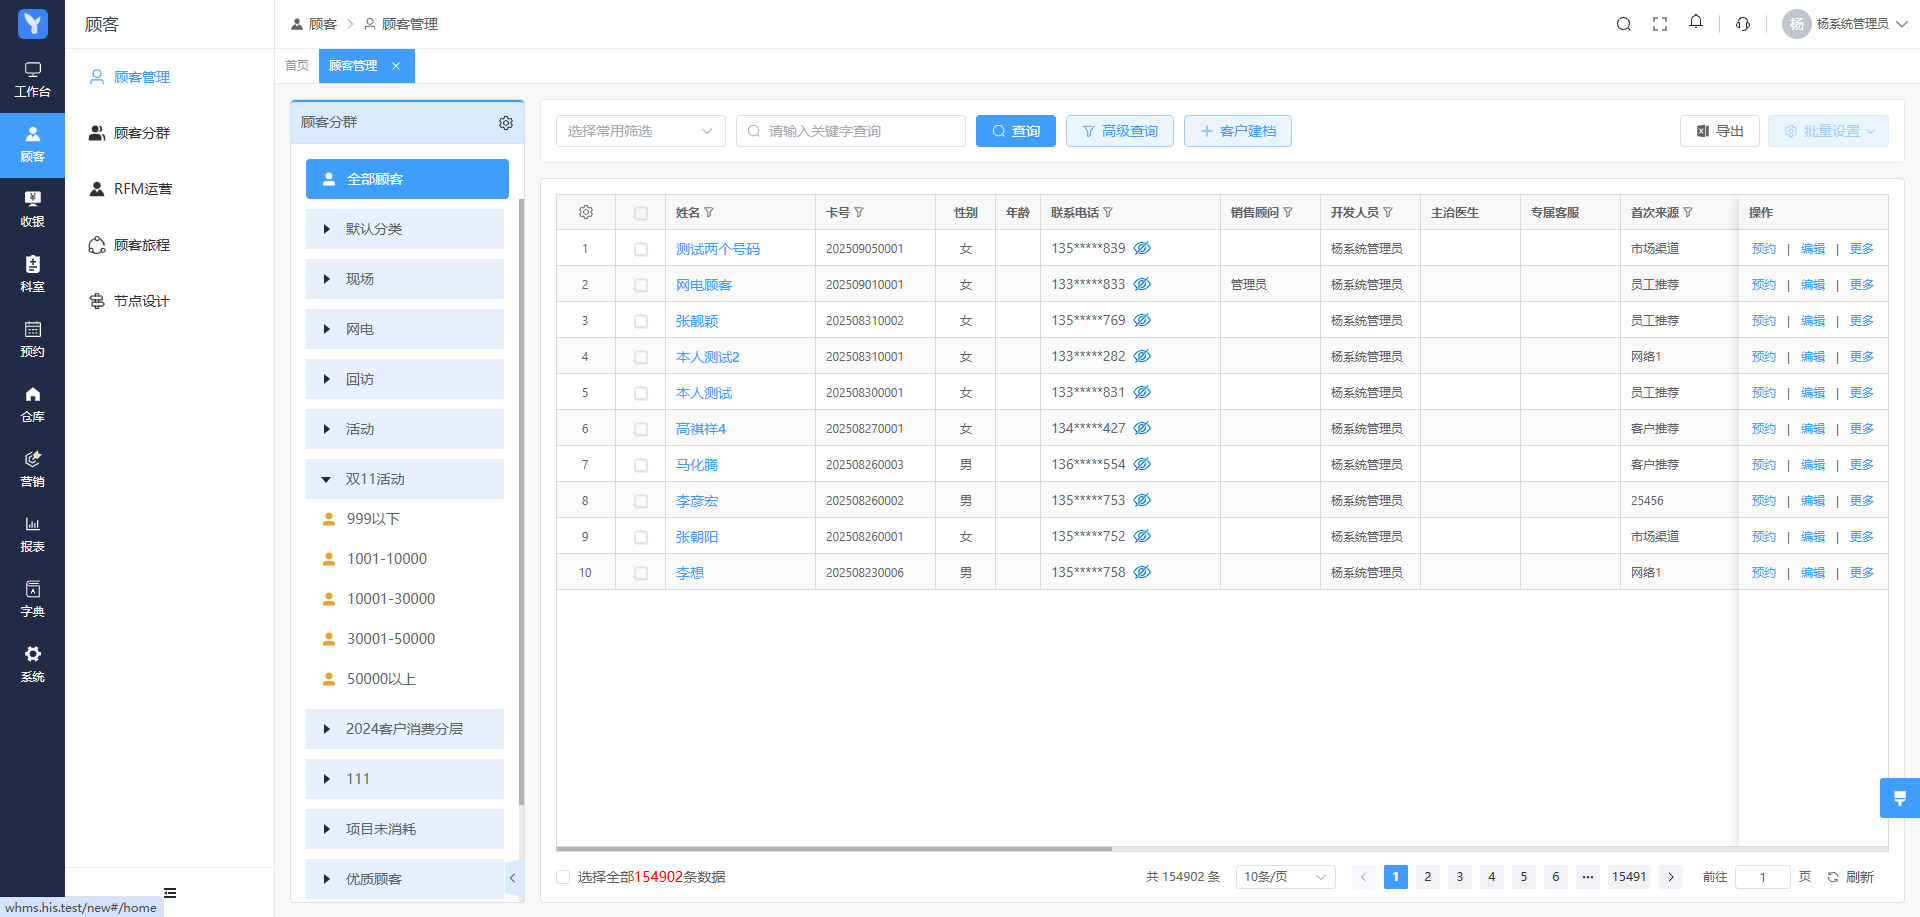
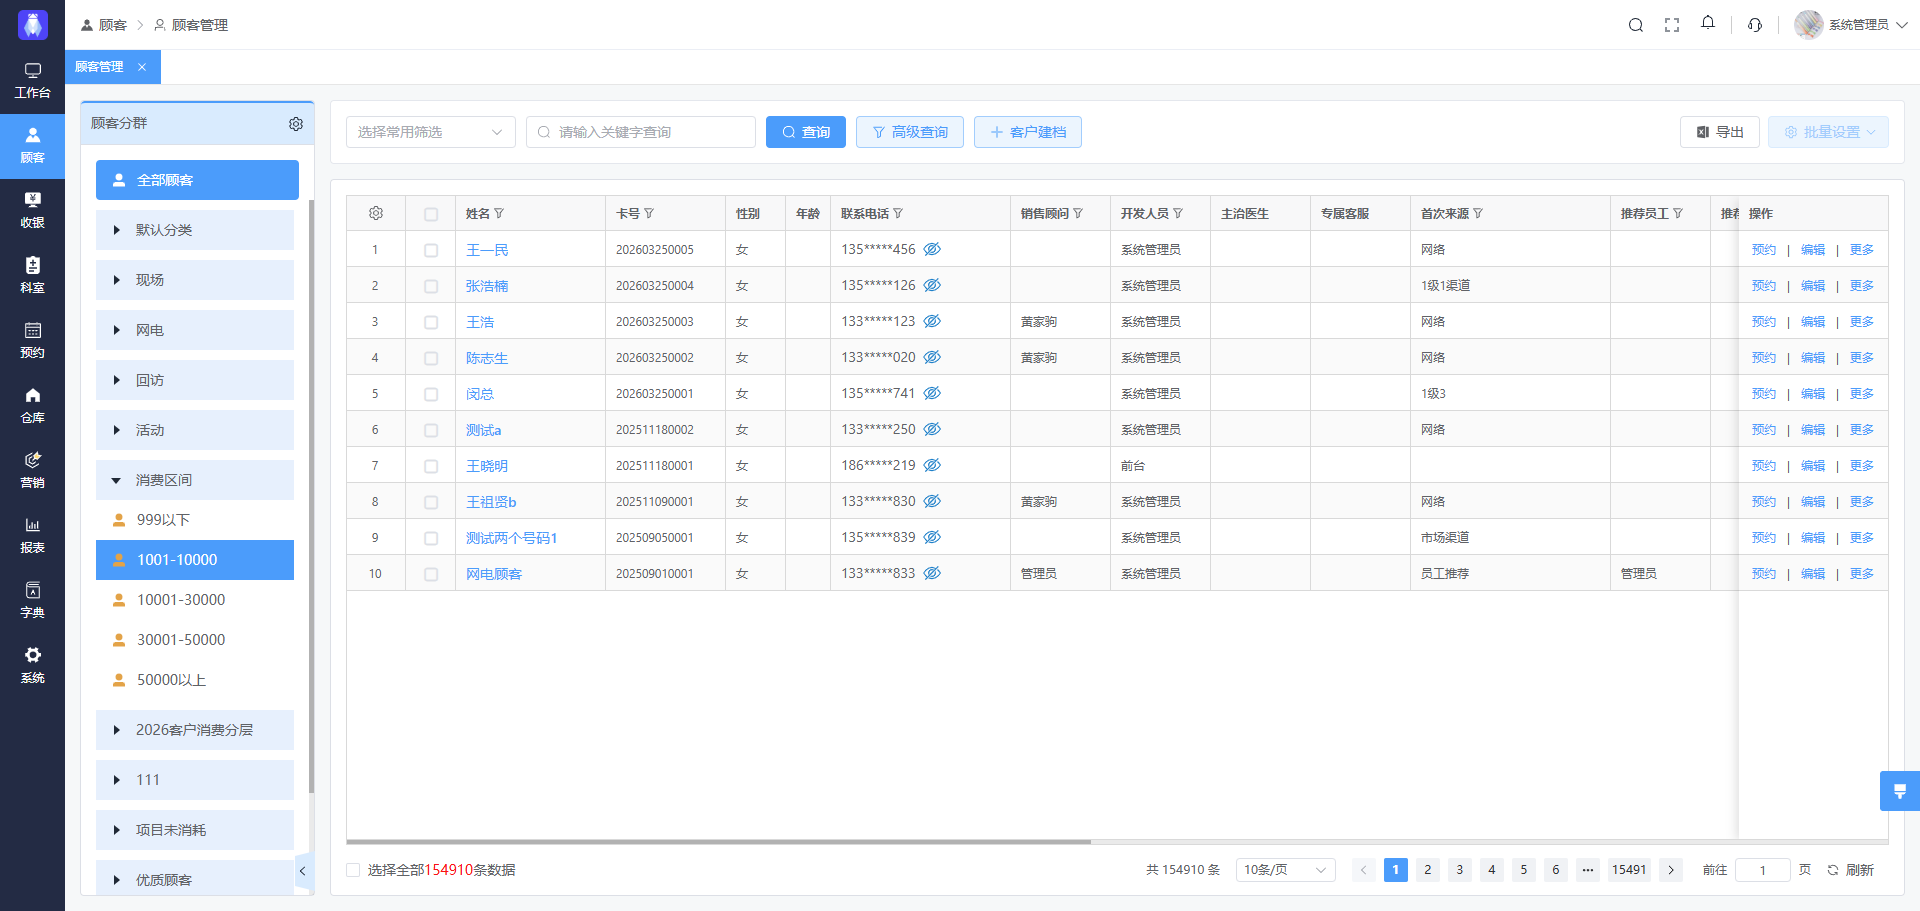
更新readme

diff --git a/README.md b/README.md
@@ -103,6 +103,16 @@
 <table>
   <tr>
     <td width="50%">
+      <h3>工作流管理</h3>
+      <img src="readme/workflow_followup.png" alt="工作流管理" />
+    </td>
+    <td width="50%">
+      <h3>菜单预览</h3>
+      <img src="readme/menu.png" alt="菜单预览" />
+    </td>
+  </tr>
+  <tr>
+    <td width="50%">
       <h3>登录界面</h3>
       <img src="readme/login.png" alt="登录界面" />
     </td>
@@ -139,14 +149,6 @@
     <td width="50%">
       <h3>ERP 管理</h3>
       <img src="readme/erp.png" alt="ERP 管理" />
-    </td>
-  </tr>
-  <tr>
-    <td width="50%">
-      <h3>工作流管理</h3>
-      <img src="readme/workflow_followup.png" alt="工作流管理" />
-    </td>
-    <td width="50%">
     </td>
   </tr>
 </table>
